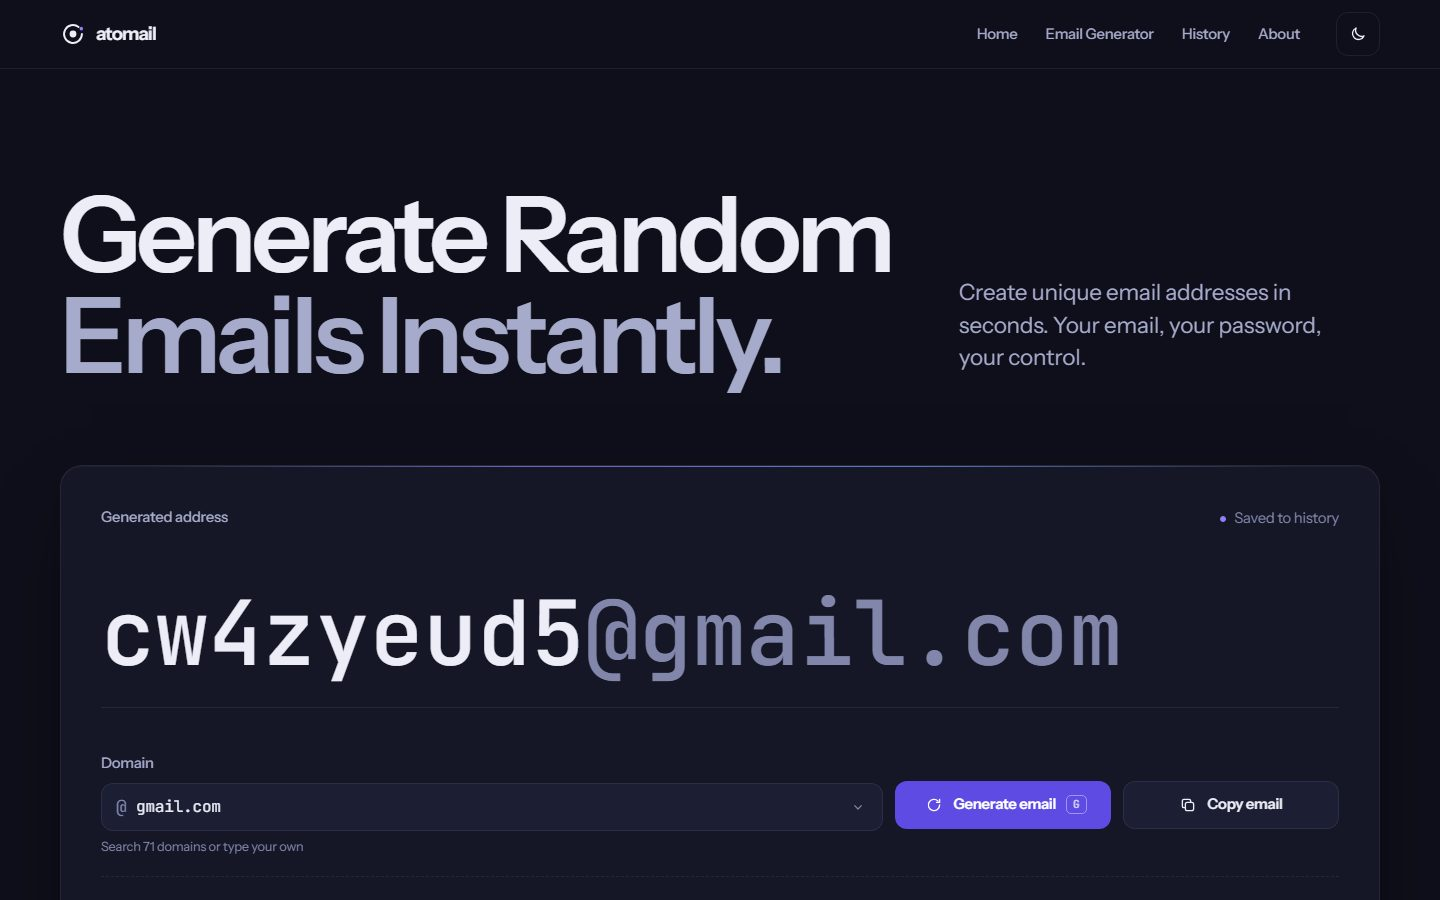
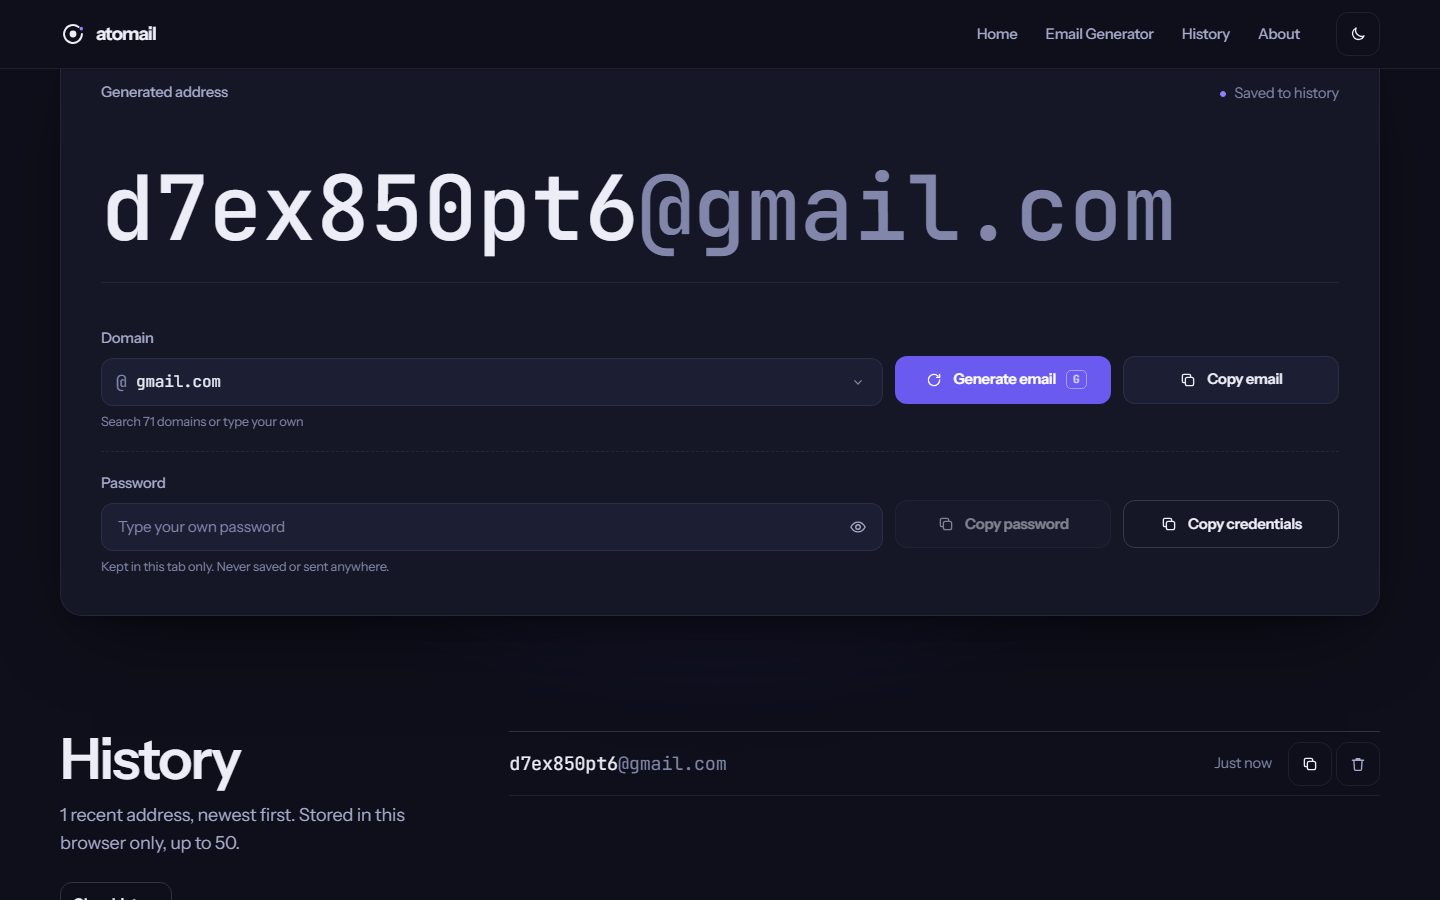
Keep the generated address readable on the Atomail card
Recapture atomail.jpg with the generator card at the top of the frame so
the address clears the title box and the bottom gradient. Add an optional
image position per project; Atomail anchors left-top so the 4:3 mobile
crop keeps the whole address.

diff --git a/portfolio/src/components/Projects.tsx b/portfolio/src/components/Projects.tsx
@@ -8,7 +8,8 @@ type Project = {
   live: string;
   /** Public repository. Leave unset for private code: the source card is hidden. */
   source?: string;
-  image: { src: string; alt: string };
+  /** `position` is a Tailwind object-position class; defaults to object-top. */
+  image: { src: string; alt: string; position?: string };
   description: string;
   features: string[];
   stack: string[];
@@ -39,7 +40,12 @@ const projects: Project[] = [
     title: "Atomail",
     kind: "Browser app · Random email generator",
     live: "https://atomail.vercel.app",
-    image: { src: "/projects/atomail.jpg", alt: "Atomail in dark theme with a freshly generated gmail.com address" },
+    image: {
+      src: "/projects/atomail.jpg",
+      alt: "Atomail generator in dark theme showing a freshly generated gmail.com address",
+      // Anchor left so the 4:3 mobile crop keeps the whole address in view.
+      position: "object-left-top",
+    },
     description:
       "Random email address generator. Pick any of 71 email domains (or type your own), generate a unique address in one click, set your own password and copy the credentials.",
     features: [
@@ -102,7 +108,7 @@ export default function Projects() {
                   alt={project.image.alt}
                   fill
                   sizes="(max-width: 1400px) 96vw, 1340px"
-                  className="object-cover object-top transition-transform duration-[1.4s] ease-[cubic-bezier(0.16,1,0.3,1)] group-hover:scale-[1.03]"
+                  className={`object-cover ${project.image.position ?? "object-top"} transition-transform duration-[1.4s] ease-[cubic-bezier(0.16,1,0.3,1)] group-hover:scale-[1.03]`}
                 />
                 <span className="absolute inset-0 bg-gradient-to-t from-black/75 via-black/10 to-transparent" />
                 <span className="badge absolute right-3 top-3 px-3.5 py-2 sm:right-5 sm:top-5">
